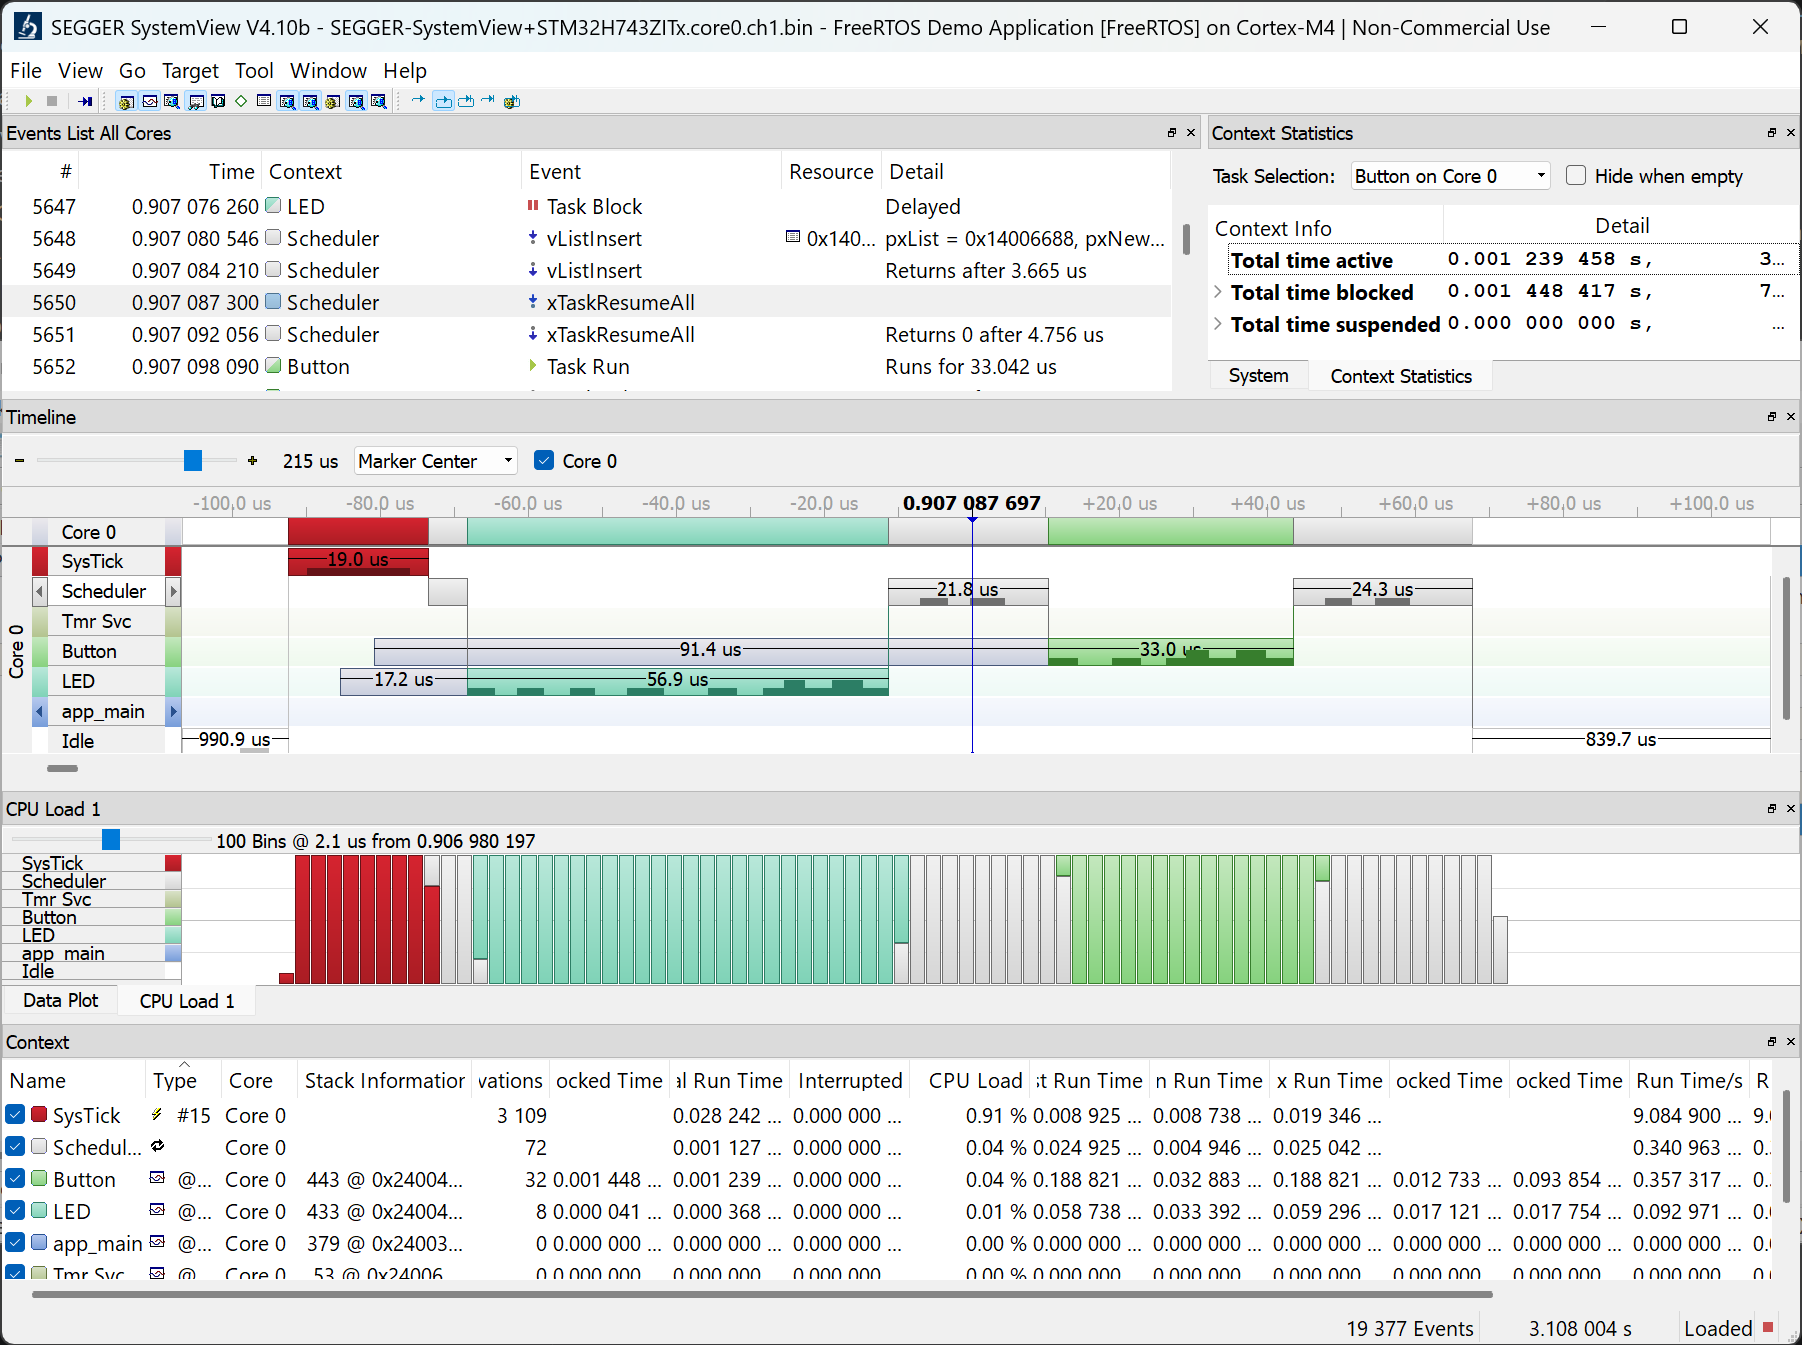
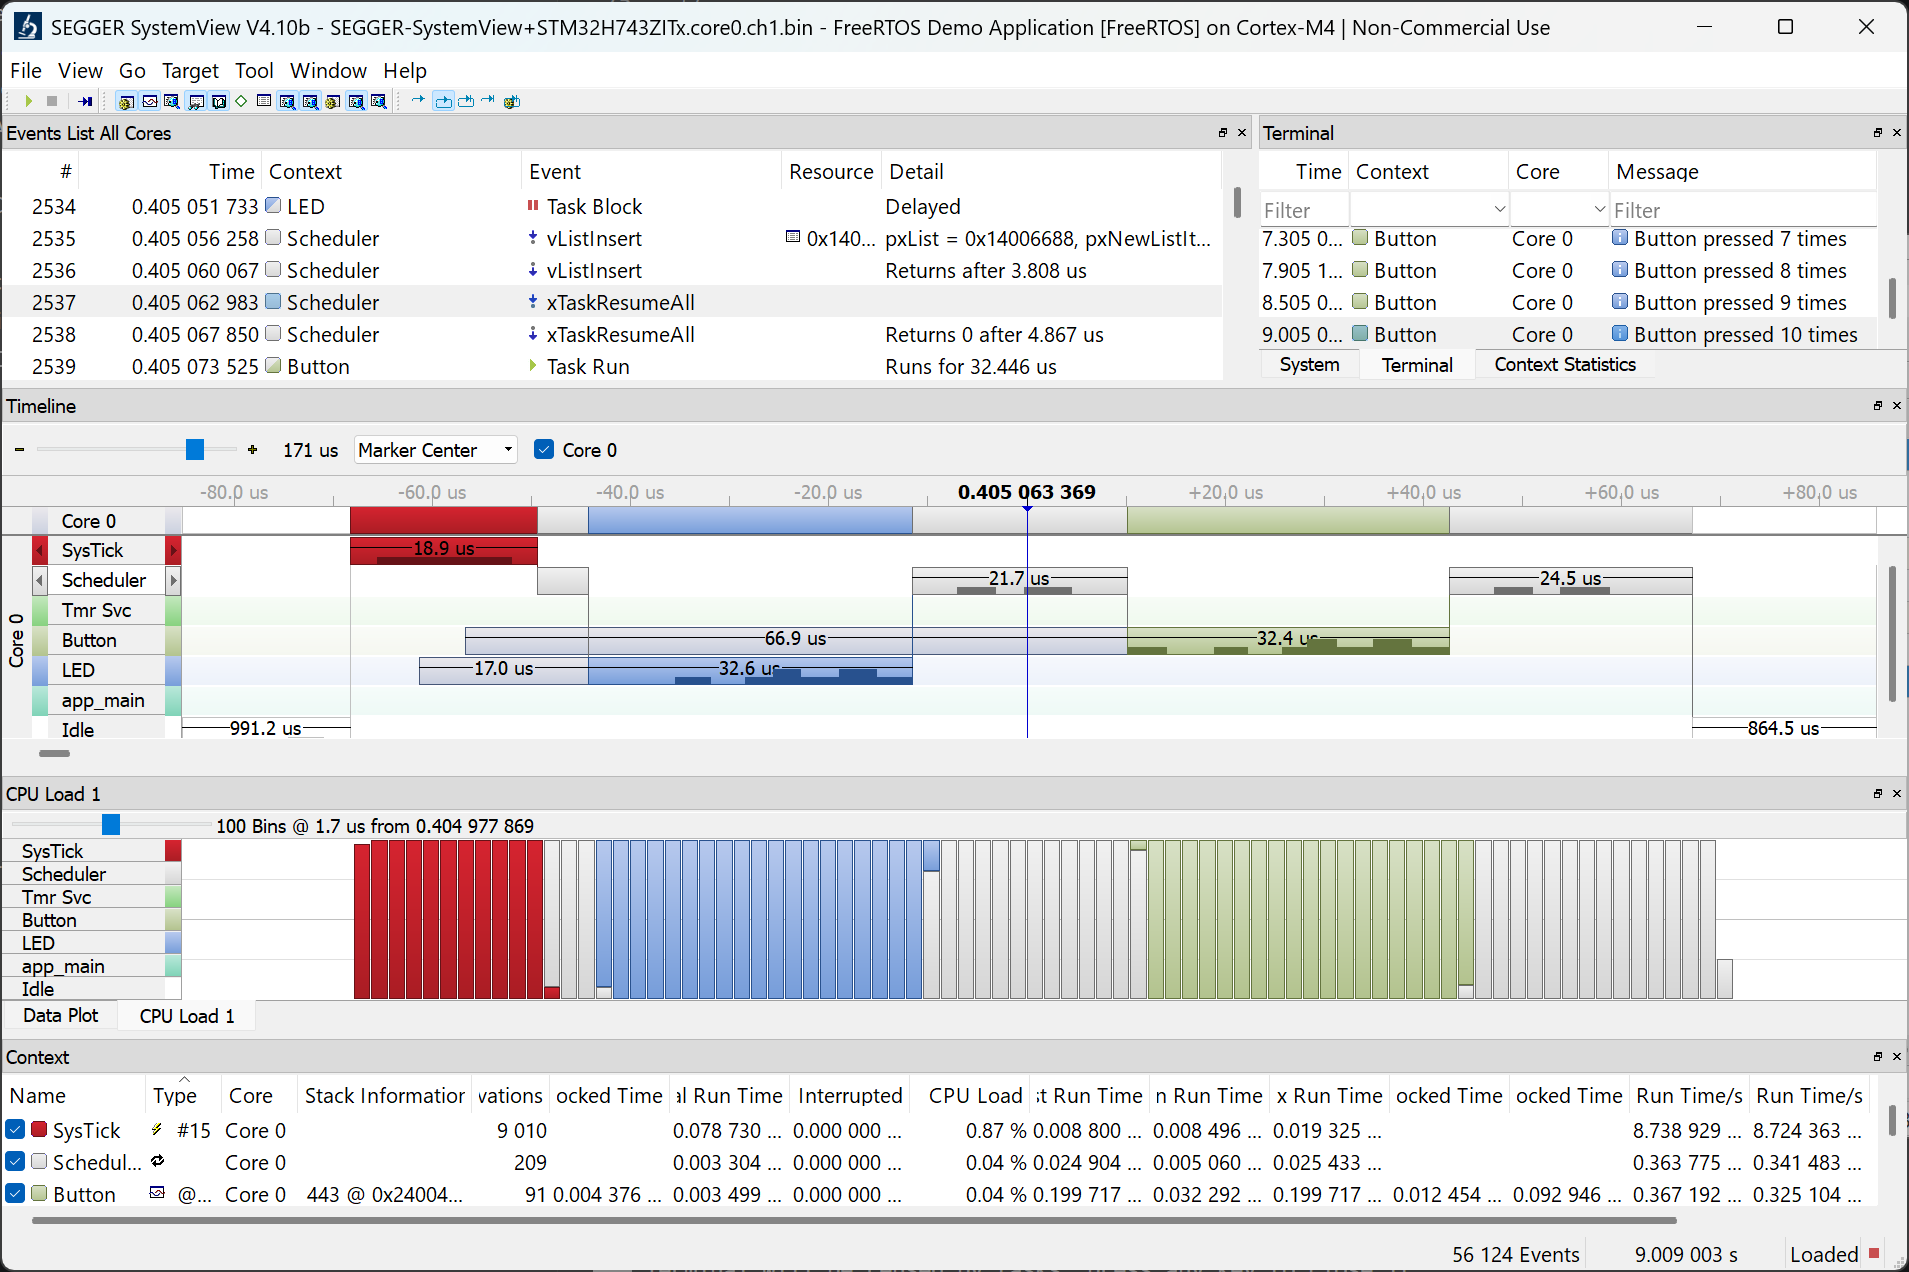
added sending message to the SystemView application and button needs to be pressed 10 times to end the streaming

diff --git a/SEGGER-SystemView/Blinky.c b/SEGGER-SystemView/Blinky.c
@@ -87,12 +87,11 @@ static __NO_RETURN void thread_Button(void *argument) {
       if (state == 1U) {
         /* Button pressed, notify LED thread */
         osThreadFlagsSet(tid_LED, 1U);
-        if(2U > count) {
-          count++;
-          if(2U == count) {
-            putchar( '\x04' ) ;  // Send EOT to terminate RTT session
-            fflush(stdout) ;
-          }
+        count++;
+        SEGGER_SYSVIEW_PrintfHost("Button pressed %d times", count);
+        if(10U == count) {
+          putchar( '\x04' ) ;  // Send EOT to terminate RTT session
+          fflush(stdout) ;
         }
       }
       last = state;

diff --git a/README.md b/README.md
@@ -20,16 +20,16 @@ This example uses the NUCLEO-H743ZI2 board. The same approach also works with ot
 4. Connect the board to the PC.
 5. Build and load the project with the CMSIS View
    [action buttons](https://github.com/Open-CMSIS-Pack/vscode-cmsis-solution#action-buttons).
-6. Press the User button on the board twice. This ends the pyOCD session and the streaming.
+6. Press the User button on the board 10 times. This ends the pyOCD session and the streaming.
 7. In the SystemView application, open the file `.\out\SEGGER-SystemView+STM32H743ZITx.core0.ch1.bin`.
 8. Inspect the system and RTOS activity.
 
 ## Requirements
 To use SEGGER SystemView as shown in this example in your own project, install the following additional packs:
 - `Segger::RTT` pack, version 8.58.0 or later
-- `Segger::SystemView` pack version 4.12.0 or newer
+- `Segger::SystemView` pack version 4.12.0 or later
 - `ARM::CMSIS-Compiler` pack, version 2.3.0 or later
-- `ARM::CMSIS-FreeRTOS` pack version 11.0.1 or newer
+- `ARM::CMSIS-FreeRTOS` pack version 11.0.1 or later
 
 To view the data captured from the running application, the Segger [SystemView application](https://www.segger.com/products/development-tools/systemview/) is required.
 
@@ -49,6 +49,10 @@ To view the data captured from the running application, the Segger [SystemView a
   - Start streaming before the RTOS initialization:
     ```
     traceSTART();
+    ```
+  - Send messages to the SystemView application:
+    ```
+    SEGGER_SYSVIEW_PrintfHost("Button pressed %d times", count);
     ```
 3. Solution and Project Configuration
   - In the `csolution.yml` file, add the following [`rtt:`](https://open-cmsis-pack.github.io/cmsis-toolbox/pyOCD-Debugger/#rtt) node under the [`debugger:`](https://open-cmsis-pack.github.io/cmsis-toolbox/pyOCD-Debugger/#debugger) node:
